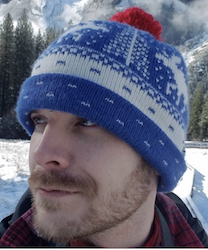
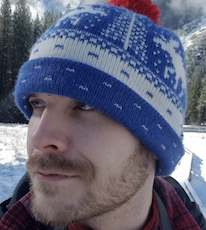
Updated Travis's pic

diff --git a/index.html b/index.html
@@ -1,5 +1,6 @@
 <!DOCTYPE html>
 <html lang="en">
+
 <head>
     <meta charset="UTF-8">
     <meta name="viewport" content="width=device-width, initial-scale=1.0">
@@ -8,104 +9,120 @@
     <link href="https://fonts.googleapis.com/css?family=IBM+Plex+Sans" rel="stylesheet">
     <link rel="stylesheet" href="style.css">
 </head>
+
 <body>
-<header class=""> 
+    <header class="">
         <div class="pic"></div>
-    <div class="headText">
+        <div class="headText">
 
-     
 
-        <h1>Travis Anderson</h1>
-        
-        <h2> My Little Pony Fan Club President </h2>
+
+            <h1>Travis Anderson</h1>
+
+            <h2> My Little Pony Fan Club President </h2>
         </div>
         <div class="btns">
-                <button class="like"> <img src="https://cdn3.iconfinder.com/data/icons/inficons-set-2/512/648843-star-ratings-512.png" class="icon" alt=""> Like</button>
-       <table>
-            
-             
-             <tr><button> <img src="https://png.icons8.com/metro/1600/plus-math.png" class="icon" alt=""> Follow</button></tr>
-             <tr><button><img src="http://downloadicons.net/sites/default/files/messages-icon-74461.png" class="icon" alt="">Message</button></tr>
-             <tr><button><img src="https://i.stack.imgur.com/twIm6.png" class="icon" alt=""></button></tr>
-         
-           </td>
-       </table>
-    </div>
+            <button class="like">
+                <img src="https://cdn3.iconfinder.com/data/icons/inficons-set-2/512/648843-star-ratings-512.png" class="icon"
+                    alt=""> Like</button>
+            <table>
+
+
+                <tr>
+                    <button>
+                        <img src="https://png.icons8.com/metro/1600/plus-math.png" class="icon" alt=""> Follow</button>
+                </tr>
+                <tr>
+                    <button>
+                        <img src="http://downloadicons.net/sites/default/files/messages-icon-74461.png" class="icon" alt="">Message</button>
+                </tr>
+                <tr>
+                    <button>
+                        <img src="https://i.stack.imgur.com/twIm6.png" class="icon" alt="">
+                    </button>
+                </tr>
+
+                </td>
+            </table>
+        </div>
         <div class="clear"></div>
-</header>
+    </header>
 
 
-<div class="foot">
-    
+    <div class="foot">
 
-    
+
+
         <ul class="footList">
             <li>Timeline</li>
             <li>About</li>
-          
+
             <li>Welcome</li>
-           
+
             <li>FWB</li>
-           
+
             <li>More</li>
         </ul>
-  
-   
-<div class="clear"></div>
+
+
+        <div class="clear"></div>
 
 
 
 
-</div>
-    
+    </div>
 
 
-<!-- body content -->
-<main>
+
+    <!-- body content -->
+    <main>
         <div class="leftCol">
-             <div class="greyLine"></div>
-            <h3 > Welcome to my Fan Page:</h3>
+            <div class="greyLine"></div>
+            <h3> Welcome to my Fan Page:</h3>
             <p class="boxText"> I have been the world's biggest MLP fan since I was in high school and want to share my passion with the world</p>
             <div class="greyLine"></div>
-            <h3><a href="http://reddit.com/r/mylittlepony">MLP Subreddit</a></h3>
-           
+            <h3>
+                <a href="http://reddit.com/r/mylittlepony">MLP Subreddit</a>
+            </h3>
+
         </div>
-           
-            
+
+
         <div class="rightCol">
 
-            <p class="boxText"> Travis Changed their cover photo</p>
-               <div class="rightContent"></div>
-               <div class="clear"></div>
-               <table>
-                   <tr >
-                       <td class="LCSbar">Like</td>
-                       <td class="LCSbar">Comment</td>
-                       <td class="LCSbar">Share</td>
-                   </tr>
-               </table>
+            <p class="boxText"> Travis Changed Their Cover Photo:</p>
+            <div class="rightContent"></div>
+
+            <table>
+                <tr>
+                    <td class="LCSbar">Like</td>
+                    <td class="LCSbar">Comment</td>
+                    <td class="LCSbar">Share</td>
+                </tr>
+            </table>
         </div>
 
-        
+
         <div class="leftCol" style="height: 324px;"></div>
-     
 
 
-       
+
+
         <div class="rightCol" style="height: 654px;"> </div>
 
         <div class="leftCol" style="height: 415px;"> </div>
-        
-        
+
+
         <div class="clear"></div>
-        
 
 
 
 
 
 
-</main>
+
+    </main>
 
 </body>
+
 </html>

diff --git a/style.css b/style.css
@@ -4,9 +4,7 @@ body {
   margin-bottom: 10px;
   background: lightgray;
   border-radius: 20px;
- 
   border-bottom: none;
- 
   font-family: "IBM Plex Sans", sans-serif;
 }
 
@@ -54,8 +52,8 @@ header {
 }
 
 .clear {
-  clear: both;
-  margin: 10px;
+  
+  margin: 10px;clear: both;
 }
 
 .pic {
@@ -68,6 +66,7 @@ header {
   bottom: -40px;
   z-index: 1;
   background-image: URL(Travs.png);
+  background-size: cover;
 }
 .like {
   margin-right: 0.4em;
